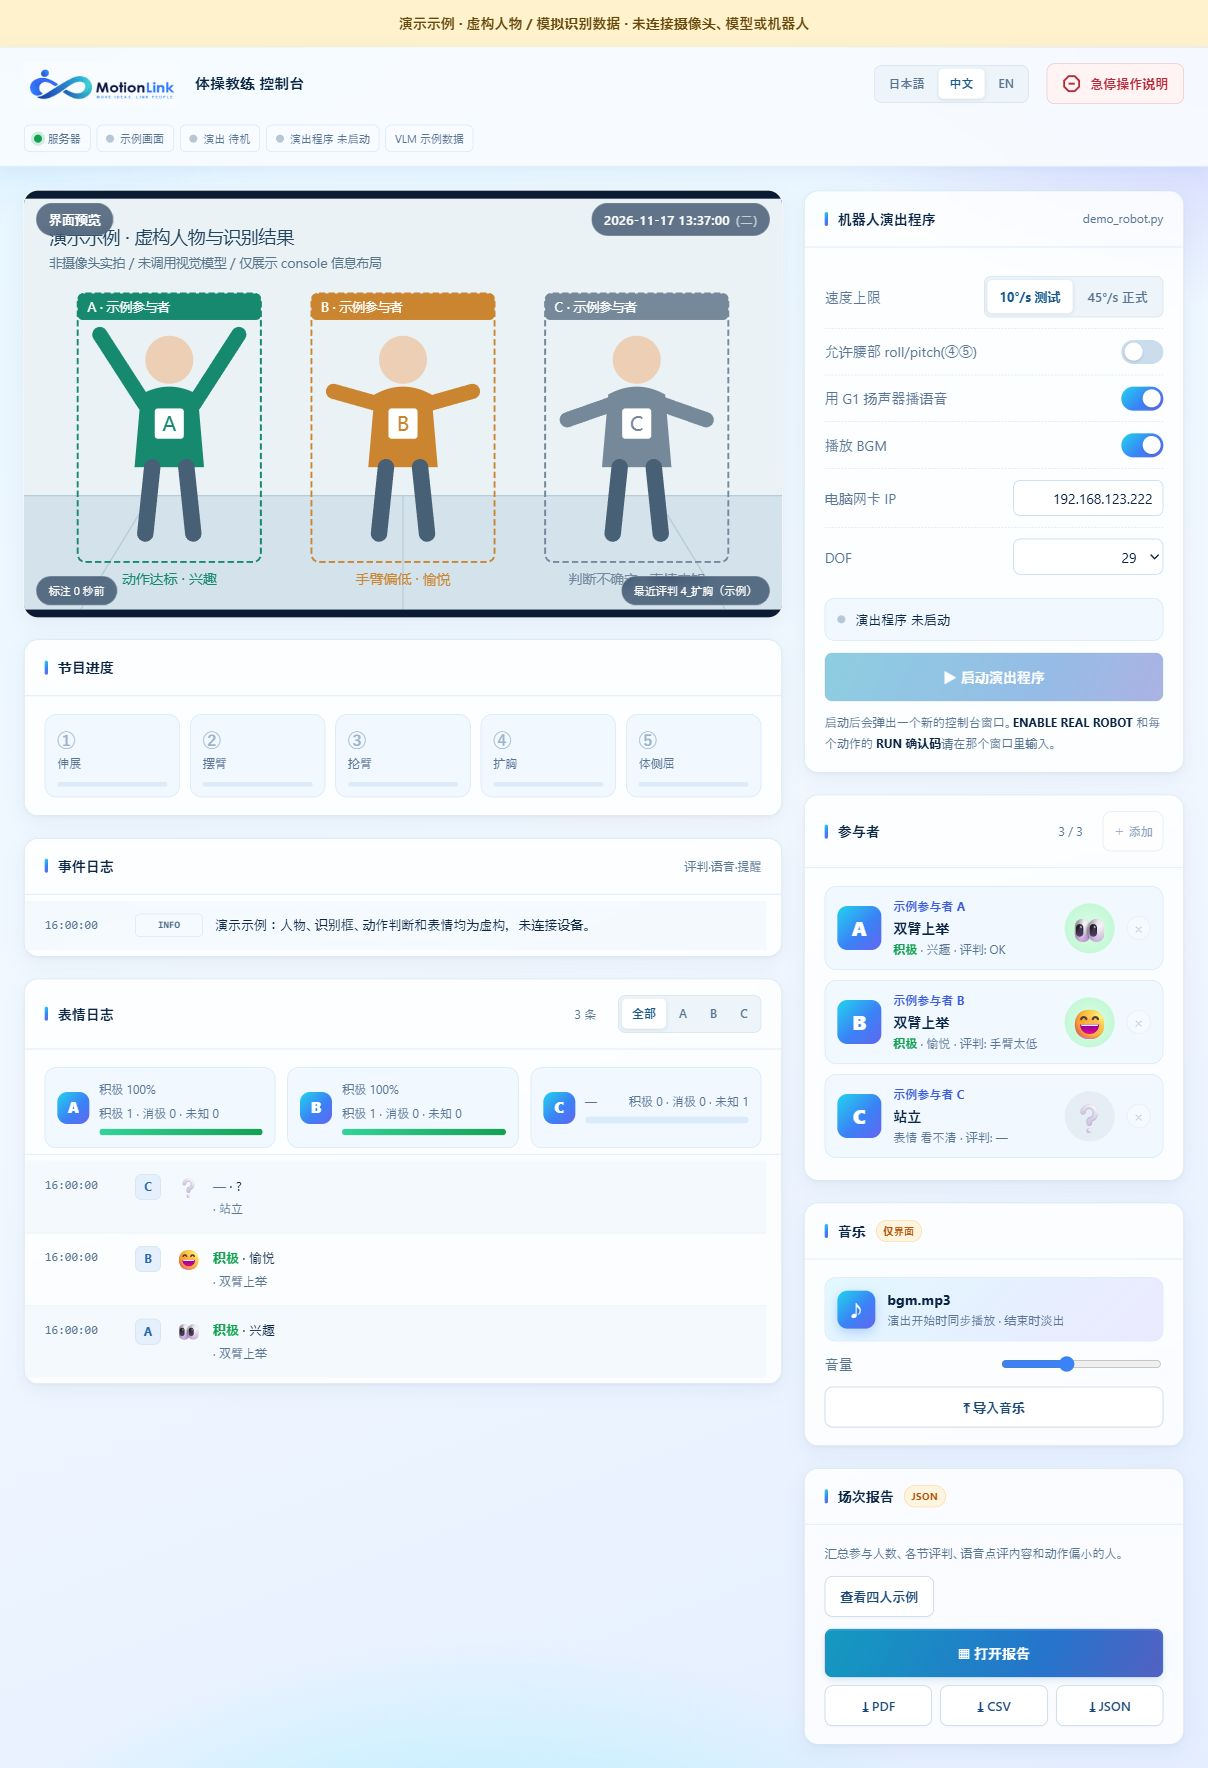
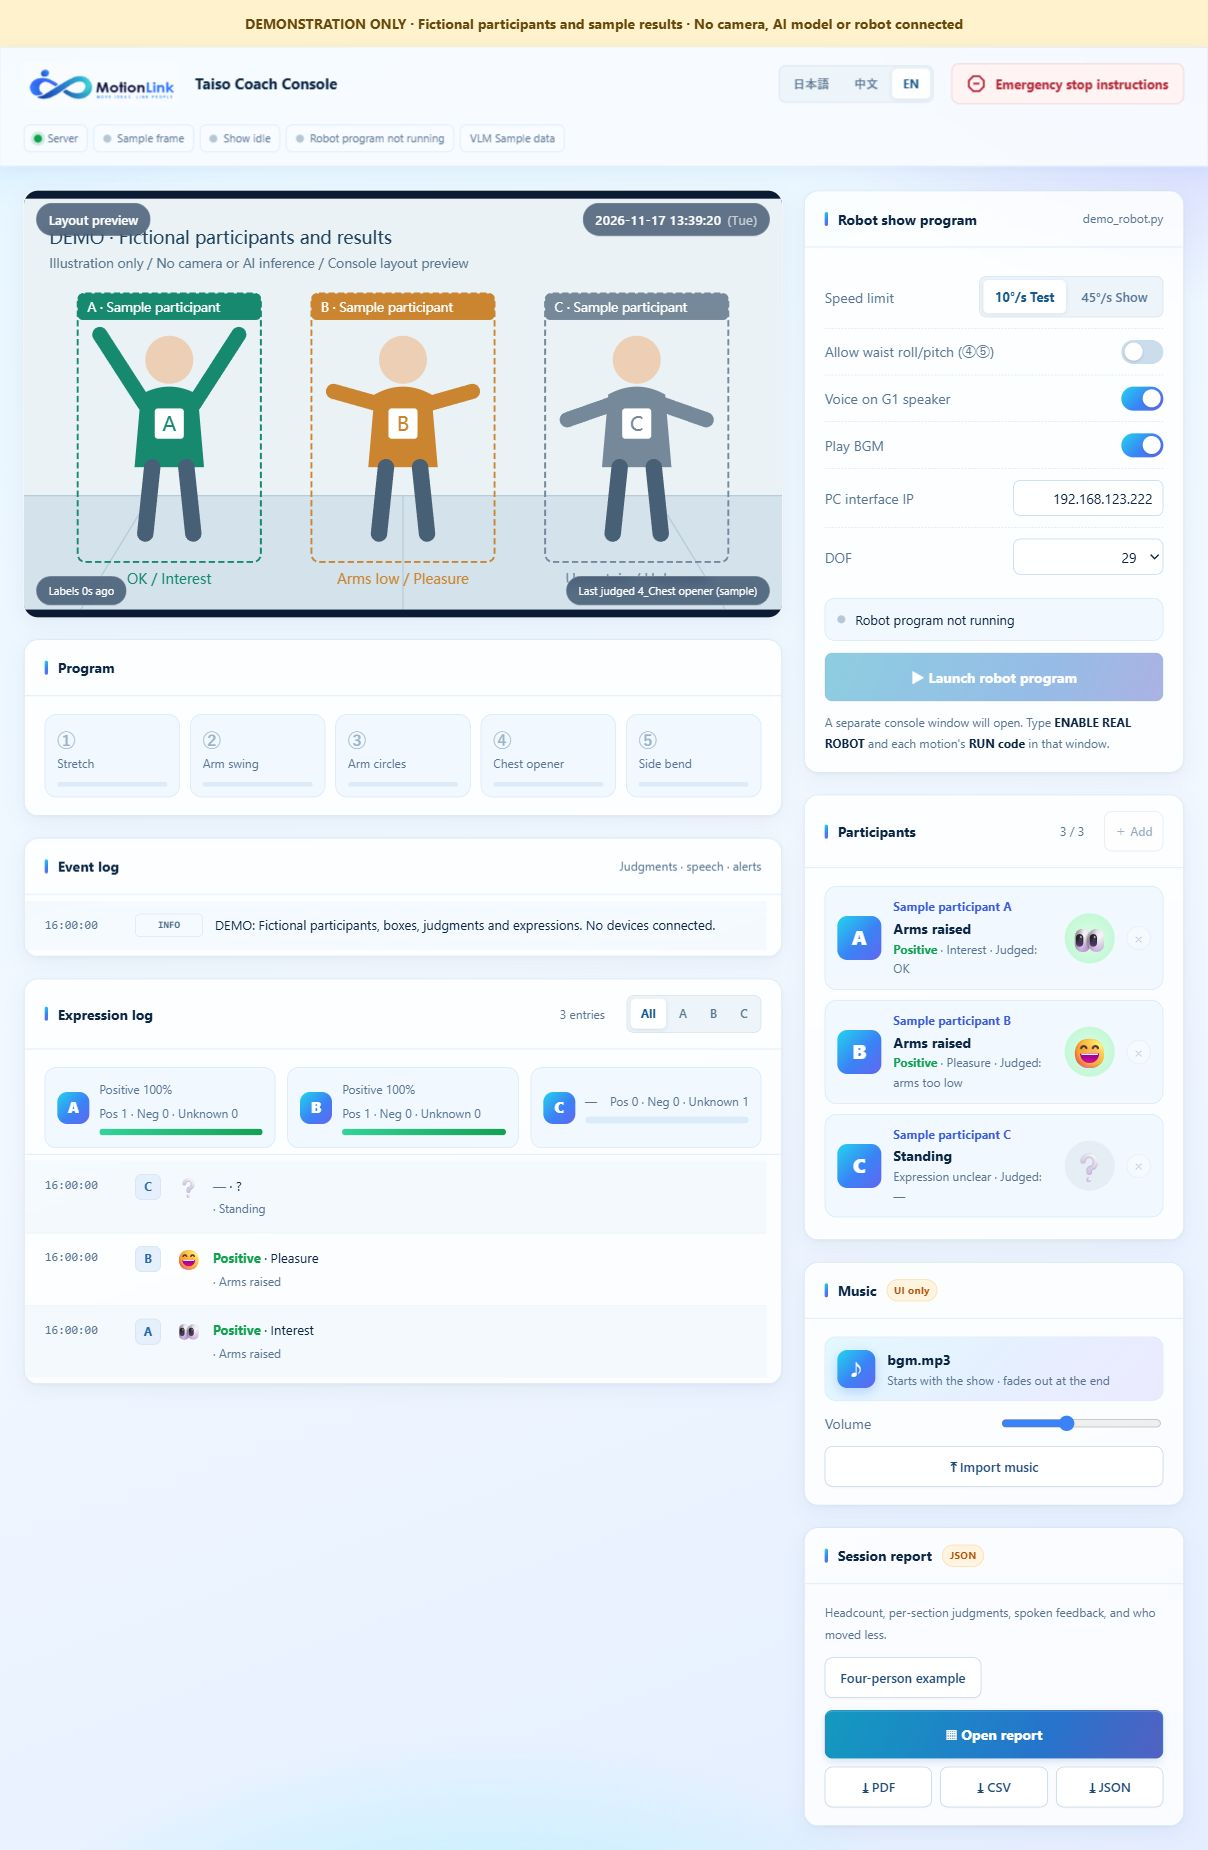
Use English for the console demonstration preview

diff --git a/preview_console_demo.py b/preview_console_demo.py
@@ -17,12 +17,12 @@ STATE = {
     "preview_only": True, "now": SAMPLE_TIME, "clock_active": False,
     "camera_ok": True, "judging": False, "section": None, "beat": None,
     "people": PEOPLE, "people_age": 0, "alert": [],
-    "last_judge": {"section": "4_扩胸（示例）", "results": [
+    "last_judge": {"section": "4_Chest opener (sample)", "results": [
         {"name": "A", "ok": True, "moving": True},
         {"name": "B", "ok": False, "moving": True, "issue": "arms_low"},
         {"name": "C", "ok": None, "moving": None}]},
     "events": [{"t": SAMPLE_TIME, "kind": "info", "text":
-                "演示示例：人物、识别框、动作判断和表情均为虚构，未连接设备。"}],
+                "DEMO: Fictional participants, boxes, judgments and expressions. No devices connected."}],
     "speech_events": [], "affect_log": [
         {**p, "t": SAMPLE_TIME, "mood": "积极" if p["name"] != "C" else "未知"}
         for p in PEOPLE],
@@ -30,9 +30,9 @@ STATE = {
                      "C": {"pos": 0, "neg": 0, "unknown": 1}},
     "affects": {"兴趣": {"emoji": "👀", "mood": "积极", "ja": "興味"},
                 "愉悦": {"emoji": "😄", "mood": "积极", "ja": "喜び"}},
-    "names": ["A", "B", "C"], "nicknames": {n: "示例参与者 " + n for n in "ABC"},
+    "names": ["A", "B", "C"], "nicknames": {n: "Sample participant " + n for n in "ABC"},
     "added_at": {}, "max_participants": 8,
-    "models": {"judge": "示例数据", "preview": "示例数据"},
+    "models": {"judge": "Sample data", "preview": "Sample data"},
     "actions_ja": {}, "robot": {"running": False}, "sections": [],
 }
 
@@ -47,9 +47,9 @@ class DemoHandler(Handler):
         if path == "/":
             html = (ROOT / "vision_ui.html").read_text("utf-8")
             html = html.replace('src="/stream.mjpg"', 'src="/demo-frame.svg"')
-            html = html.replace("applyLang();\npoll();", 'lang = "zh"; applyLang();\npoll();')
-            html = html.replace("<body>", '<body><div style="padding:12px 24px;background:#fff2cd;color:#67480b;font-weight:700;text-align:center">演示示例 · 虚构人物 / 模拟识别数据 · 未连接摄像头、模型或机器人</div>')
-            html = html.replace("render(S);", 'render(S); $("dot-cam").className="dot"; document.querySelector(\'[data-i18n="chip_cam"]\').textContent="示例画面";')
+            html = html.replace("applyLang();\npoll();", 'lang = "en"; applyLang();\npoll();')
+            html = html.replace("<body>", '<body><div style="padding:12px 24px;background:#fff2cd;color:#67480b;font-weight:700;text-align:center">DEMONSTRATION ONLY · Fictional participants and sample results · No camera, AI model or robot connected</div>')
+            html = html.replace("render(S);", 'render(S); $("dot-cam").className="dot"; document.querySelector(\'[data-i18n="chip_cam"]\').textContent="Sample frame";')
             return self.respond(200, html.encode(), "text/html; charset=utf-8")
         return self.respond(404, b"Demo only", "text/plain")
 
